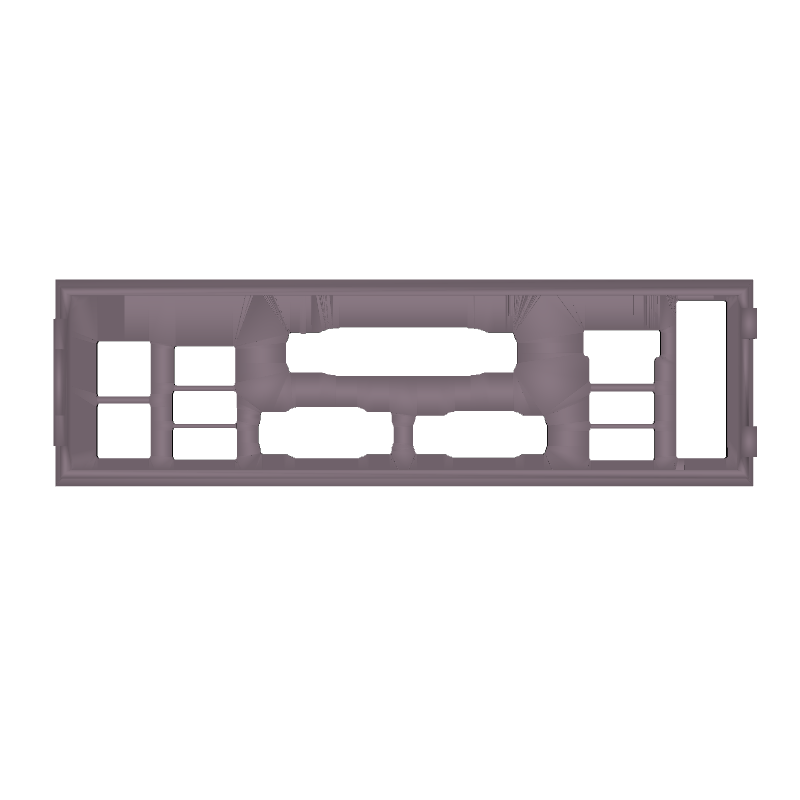
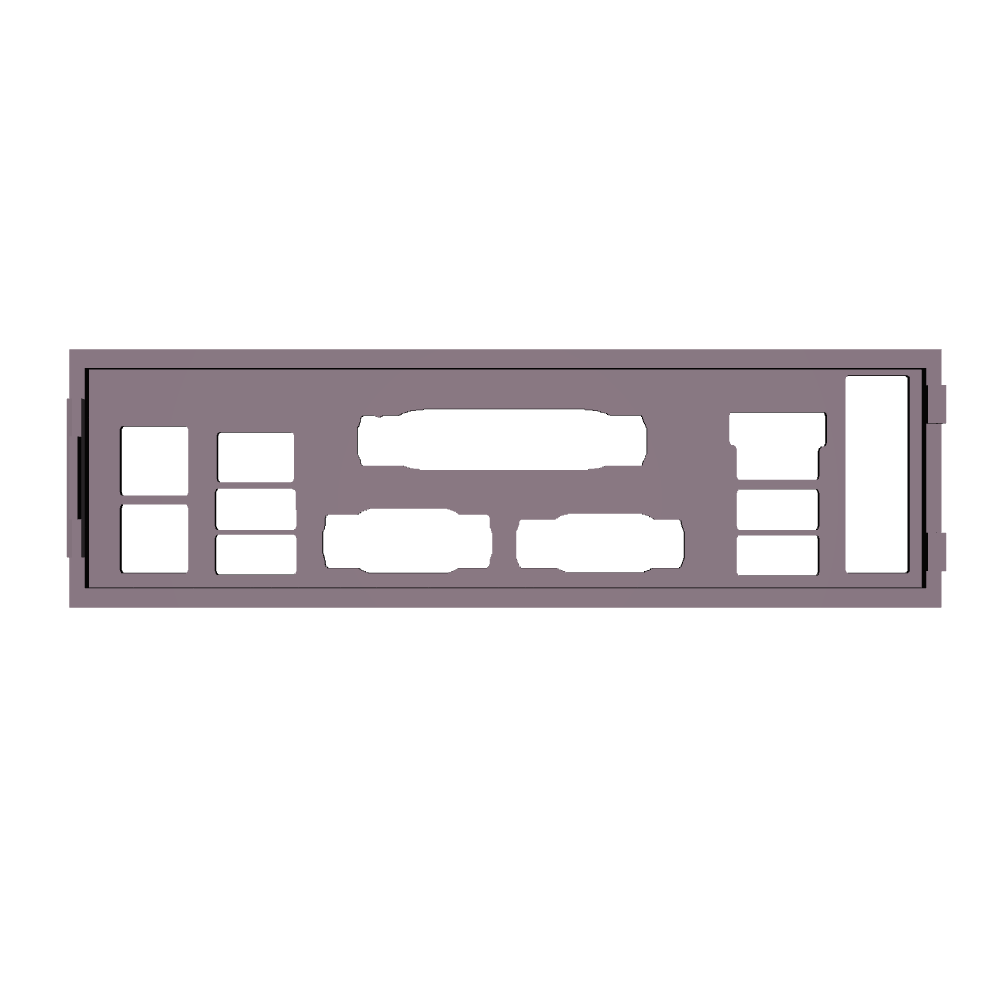
Aw yeah

Changed region(s): [[0.0625, 0.3438, 0.9688, 0.625], [0.2188, 0.5625, 0.6875, 0.5938], [0.1875, 0.5, 0.2188, 0.5625]]

diff --git a/Website/static/logic.js b/Website/static/logic.js
@@ -52,6 +52,13 @@ let userUploadedImage;
 dropContainer.ondragover = dropContainer.ondragenter = function(evt) {
   evt.preventDefault();
 };
+function AllowDownloadImageButton (eventDtTransferFile, fileName){ //evt.dataTransfer.files[0], userUploadedImage[0].name
+	const dlBtn = document.getElementById("downloadBtn");
+	dlBtn.href = URL.createObjectURL(eventDtTransferFile);
+	//dlBtn.download = fileName;
+	dlBtn.download = fileName.replace(/\.[^/.]+$/, "") + ".png";
+	dlBtn.style.display = "inline-block";
+}
 dropContainer.ondrop = function(evt) {
   // pretty simple -- but not for IE :(
   console.log ("DragNDrop");
@@ -67,10 +74,7 @@ dropContainer.ondrop = function(evt) {
   InputBox2.files = dT.files;
   blah.src = URL.createObjectURL(evt.dataTransfer.files[0]);
   document.getElementById("sample").src =  blah.src;
-			const dlBtn = document.getElementById("downloadBtn");
-			dlBtn.href = URL.createObjectURL(evt.dataTransfer.files[0]);
-			dlBtn.download = userUploadedImage[0].name;
-			dlBtn.style.display = "inline-block";
+	AllowDownloadImageButton(evt.dataTransfer.files[0], userUploadedImage[0].name);
   evt.preventDefault();
   document.getElementsByClassName ("ShowAfterShrink")[0].style.display = "block";
   document.getElementsByClassName ("RemoveAfterShrink")[0].style.display = "none";
@@ -96,10 +100,11 @@ InputBox.onchange = evt => {
     blah.src = URL.createObjectURL(file);
 	document.getElementById("sample").src =  blah.src;
 
-	const dlBtn = document.getElementById("downloadBtn");
+	/*const dlBtn = document.getElementById("downloadBtn");
 	dlBtn.href = URL.createObjectURL(file);
 	dlBtn.download = userUploadedImage[0].name;
-	dlBtn.style.display = "inline-block";
+	dlBtn.style.display = "inline-block";*/	
+	AllowDownloadImageButton(evt.dataTransfer.files[0], userUploadedImage[0].name);
   }
   //document.getElementById ("dropContainer").classList.add('Part_1_shrinked');
   document.getElementsByClassName ("ShowAfterShrink")[0].style.display = "block";
@@ -138,10 +143,12 @@ function rotateImage ()
 			InputBox2.files = dt.files;
 			userUploadedImage = dt.files;
 			
-			const dlBtn = document.getElementById("downloadBtn");
+			/*const dlBtn = document.getElementById("downloadBtn");
 			dlBtn.href = URL.createObjectURL(rotatedFile);
 			dlBtn.download = userUploadedImage[0].name;
-			dlBtn.style.display = "inline-block";
+			dlBtn.style.display = "inline-block";*/
+			
+			AllowDownloadImageButton(rotatedFile, userUploadedImage[0].name);
 		});
 	};
 	img.src = URL.createObjectURL(userUploadedImage[0]);
@@ -184,9 +191,10 @@ function cropImage() {
 			InputBox.files = dt.files;
 			InputBox2.files = dt.files;
 			
-			const dlBtn = document.getElementById("downloadBtn");
+			/*const dlBtn = document.getElementById("downloadBtn");
 			dlBtn.href = URL.createObjectURL(croppedFile);
-			dlBtn.download = userUploadedImage[0].name;
+			dlBtn.download = userUploadedImage[0].name;*/
+			AllowDownloadImageButton(croppedFile, userUploadedImage[0].name);
 		});
 	};
 

diff --git a/AutoStlToImg/FindNiggaFile.py b/AutoStlToImg/FindNiggaFile.py
@@ -1,0 +1,95 @@
+import glob, os, re
+from thefuzz import process
+from thefuzz import fuzz
+import shutil
+import os
+
+EbayFileWordList = ["IO", " io", "I/O", "I/o", "i/o", "Shield",
+                    "[Got From Printable]", "Backplate", 
+                    "shield", "3D", "3d", "Printed", "printed",
+                    "Print", "Plate", "plate",
+                    "Black", "White", "WHITE", "BLACK",
+                    "Random", " Plat", " color", " Color", " or ",
+                    "[", "]", "/", ",", "\n", "  "]
+EbayFileIdx = "C:/Users/Za/Desktop/3D Printing/Shopee/IO Shield/Uploaded IO Ebay.txt"
+EbayFileLineList =  []
+
+FatherPath = "C:/Users/Za/Desktop/3D Printing/Shopee/IO Shield/"
+FolderList = ['Asrock', 'Asus', 'Dell', 'EVGA', 'Gigabyte',
+                'HP', 'Huananzhi', 'Intel', 'Msi',
+                'ZZZ_QAT', 'ZZZ_QAT/Abit', 'ZZZ_QAT/Acer', 'ZZZ_QAT/BCM', 'ZZZ_QAT/Biostar',
+                'ZZZ_QAT/Colorful', 'ZZZ_QAT/Daewoo', 'ZZZ_QAT/Datto', 'ZZZ_QAT/ECS',
+                'ZZZ_QAT/Galax', 'ZZZ_QAT/Kllisre', 'ZZZ_QAT/Machinist', 'ZZZ_QAT/Maxsun',
+                'ZZZ_QAT/OEM', 'ZZZ_QAT/SuperMicro', 'ZZZ_QAT/Winnfox', 'ZZZ_QAT/Zotac']
+
+with open(EbayFileIdx, mode = 'r') as EbayFile:
+    for line in EbayFile:
+        t = line
+        t = t.replace('  ', ' ')
+        for i in EbayFileWordList:
+            t = t.replace(i, '')
+        EbayFileLineList.append (t)
+
+PcFileList = []
+PcFileNameList = []
+#Clean and generate pc file list
+for FolderName in FolderList:
+    for filePath in [os.path.normpath(i) for i in glob.glob (os.path.join(FatherPath, FolderName, "*.stl"))]:
+        t = os.path.basename(filePath)
+        t = re.sub(FolderName.split('/')[-1], '', t, flags=re.IGNORECASE) #
+        if (t[0] == ' '):
+            t = t[1:]
+        t = re.sub(r'\[.*?\]', '', t)
+        t = t.replace (" .", ".")
+        #t = t.replace (".stl", "")
+        t = re.sub(".stl", '', t, flags=re.IGNORECASE)
+        if FolderName!='ZZZ_QAT':
+            t = FolderName.split('/')[-1] + " " + t
+        PcFileNameList.append (t)
+        PcFileList.append (filePath)
+#Clean duplicate pc file
+while True:
+    check = False
+    delete_list = []
+    for i in range (len(PcFileList)-1):
+        for j in range (i+1, len(PcFileList)):
+            t = fuzz.partial_token_sort_ratio(PcFileNameList[i], PcFileNameList[j])
+            if (t > 95):
+                #print ("Found matching: [",t,"]:", PcFileNameList[i],"_", PcFileNameList[j])
+                if len(PcFileNameList[i]) < len(PcFileNameList[j]):
+                    delete_list.append(j)
+                    #print ("Delete: ",PcFileList[j])
+                else:
+                    delete_list.append(i)
+                    #print ("Delete: ",PcFileList[i])
+    delete_list.sort()
+    for i in reversed(delete_list):
+        #print ("Deleted: ",i, PcFileList[i])
+        del PcFileList[i]
+        del PcFileNameList[i]
+    break
+#Match Ebay file with pc file
+print ("Matching Ebay with pc")
+for i in EbayFileLineList:
+    matchResult = process.extractOne(i, PcFileNameList)#, scorer=fuzz.partial_token_sort_ratio)
+    if matchResult[1]<95:
+        print (i,'\n',matchResult[0],'_',matchResult[1])
+    else:
+        Remove_index = PcFileNameList.index(matchResult[0])
+        #print (PcFileList[Remove_index],' ',PcFileNameList[Remove_index])
+        PcFileNameList.pop(Remove_index)
+        PcFileList.pop(Remove_index)
+#print (EbayFileLineList)
+
+"""dest_folder = r"[Maybe Not Posted File]"
+os.makedirs(dest_folder, exist_ok=True)
+for idx, path in enumerate(PcFileList):
+    prefix = PcFileNameList[idx] + " ___ "
+    new_name = prefix + os.path.basename(path)
+    dest_path = os.path.join(dest_folder, new_name)
+    shutil.copy2(path, dest_path)
+    #shutil.copy2(path, dest_folder)
+"""
+
+t = PcFileNameList
+t.sort()

diff --git a/AutoStlToImg/sex.py b/AutoStlToImg/sex.py
@@ -2,8 +2,9 @@ import trimesh
 import pyrender
 import numpy as np
 import os
+from PIL import Image
 
-def render_stl_screenshot(stl_path, output_path, angle=30):
+def render_stl_screenshot(stl_path, output_path, output_path_2, angle=30):
     # Load STL file
     mesh = trimesh.load_mesh(stl_path)
     #mesh.apply_transform(trimesh.transformations.rotation_matrix(
@@ -12,29 +13,49 @@ def render_stl_screenshot(stl_path, output_path, angle=30):
 
     # Convert to pyrender mesh
     scene = pyrender.Scene()
+    mesh.merge_vertices()
+    mesh.fix_normals()
+    mesh = mesh.smooth_shaded#mesh.smoothed(normals=True)
     mesh = pyrender.Mesh.from_trimesh(mesh)
     scene.add(mesh)
 
     # Add camera and light
     camera = pyrender.PerspectiveCamera(yfov=np.pi / 4)
     light = pyrender.DirectionalLight(color=np.array ([1,0.75,0.9]), intensity=3.0)
-    scene.add(camera, pose=[[1, 0, 0, 80], [0, 1, 0, 20], [0, 0, 1, 225], [0, 0, 0, 1]])
-    """scene.add(camera, pose=[[200, 0, 0, 80], #[Height,???,???,Move Camera Right]
-                            [0, 150, 0, 20], #[Rotate???, Vertical Scale, ???, Move Camera Down]
-                            [0, 0, 50, 70], #[?,, Inverse Z Scales,Z-axis movement]
-                            [0, 0, 0, 1]])"""
-    scene.add(light, pose=[[1, 0, 0, 50], [0, 1, 0, 50], [0, 0, 1, 100], [0, 0, 0, 1]])
-
+    """scene.add(camera, pose=
+           [[200, 0, 0, 80], #[Hori Scale         , RotateZ + Z-Offset , RotateHorizon   , Move Camera Right]
+            [0, 150, 0, 20], #[-RotateZ + Z-Offset, Vertical Scale     , RotateVertical  , Move Camera UP]
+            [0, 0, 50, 70],  #[RotateHorizon      ,  RotateVertical    , Inverse Z Scales, Move Camera Backward]
+            [0, 0, 0, 1]])   #Bottom row of matrix must be [0,0,0,1]   """
+   
+    scene.add(light, pose=[[1, 0, 0, 50],[0, 1, 0, 50],[0, 0, 1, 100],[0, 0, 0, 1]]) #fine 
+    #scene.add(camera, pose=[[1, 0, 0, 80], [0, 1, 0, 20], [0, 0, 1, 225], [0, 0, 0, 1]]) #fine
+    nc = pyrender.Node(camera=camera, matrix=[[1, 0, 0, 80], [0, 1, 0, 20], [0, 0, 1, 225], [0, 0, 0, 1]])
+    scene.add_node(nc)
     # Render the scene
-    renderer = pyrender.OffscreenRenderer(800, 800)
+    renderer = pyrender.OffscreenRenderer(1000, 1000)
     color, _ = renderer.render(scene)
     renderer.delete()
-
-    # Save the image
-    from PIL import Image
     Image.fromarray(color).save(output_path)
+    scene.remove_node(nc)
 
+    camera2 = pyrender.PerspectiveCamera(yfov=np.pi / 4)
+    #scene.add(camera2, pose=[[   1,-0.2,      0,  -5],
+    #                        [   0,   1,   -0.8, -52],
+    #                        [ 0.9,   0,      1, 160],
+    #                        [   0,   0,      0,  1]])
+    nc = pyrender.Node(camera=camera, matrix=[[   1,-0.2,      0,  -5],
+                            [   0,   1,   -0.8, -52],
+                            [ 0.9,   0,      1, 160],
+                            [   0,   0,      0,  1]])
+    scene.add_node(nc)
+    
+    renderer = pyrender.OffscreenRenderer(1000, 1000)
+    color, _ = renderer.render(scene)
+    renderer.delete()
+    Image.fromarray(color).save(output_path_2)
 # Example usage
-stl_file = "example.stl"
-output_image = "screenshot.png"
-render_stl_screenshot(stl_file, output_image)
+if __name__ == "__main__":
+    stl_file = "example.stl"
+    output_path = "screenshot.png"
+    render_stl_screenshot(stl_file, output_path, output_path_2)

diff --git a/AutoStlToImg/sex2.py b/AutoStlToImg/sex2.py
@@ -1,0 +1,47 @@
+#!/usr/bin/env python3
+import os, math, argparse, numpy as np, trimesh, pyrender
+from glob import glob
+from PIL import Image
+from tqdm import tqdm
+from concurrent.futures import ProcessPoolExecutor
+
+def cam_pose(az, el, dist):
+    az, el = math.radians(az), math.radians(el)
+    x, y, z = dist*math.cos(el)*math.cos(az), dist*math.cos(el)*math.sin(az), dist*math.sin(el)
+    f = -np.array([x,y,z]); f /= np.linalg.norm(f)
+    r = np.cross([0,0,1], f); r /= np.linalg.norm(r)
+    u = np.cross(f, r)
+    M = np.eye(4); M[:3,:3] = np.c_[r,u,f]; M[:3,3] = [x,y,z]
+    return M
+
+def render_one(stl, out, az, el, dist, w, h):
+    try:
+        m = trimesh.load(stl, force='mesh')
+        m.merge_vertices(); m.fix_normals(); m = m.smoothed(normals=True)
+        m.apply_translation(-m.centroid)
+        m.apply_scale(1.0/(m.bounding_sphere.radius or 1))
+        scene = pyrender.Scene(bg_color=(255,255,255), ambient_light=[.3]*3+[1])
+        scene.add(pyrender.Mesh.from_trimesh(m, smooth=True))
+        cam = pyrender.PerspectiveCamera(yfov=np.radians(60))
+        pose = cam_pose(az, el, dist)
+        scene.add(cam, pose=pose)
+        scene.add(pyrender.DirectionalLight(intensity=3), pose=pose)
+        r = pyrender.OffscreenRenderer(w,h)
+        color, _ = r.render(scene); r.delete()
+        Image.fromarray(color).save(out)
+    except Exception as e: print("Fail", stl, e)
+
+def main():
+    a = argparse.ArgumentParser(); add=a.add_argument
+    add("--input"); add("--output"); add("--az",type=float,default=45)
+    add("--el",type=float,default=30); add("--dist",type=float,default=2.5)
+    add("--size",nargs=2,type=int,default=[1024,768]); add("--workers",type=int,default=4)
+    args=a.parse_args(); os.makedirs(args.output,exist_ok=True)
+    files=sorted(glob(os.path.join(args.input,"*.stl")))
+    tasks=[(f,os.path.join(args.output,os.path.splitext(os.path.basename(f))[0]+".png"),
+            args.az,args.el,args.dist,args.size[0],args.size[1]) for f in files]
+    with ProcessPoolExecutor(args.workers) as ex:
+        list(tqdm(ex.map(lambda t: render_one(*t), tasks), total=len(tasks)))
+
+if __name__=="__main__":
+    main()

diff --git a/AutoStlToImg/Render File to Image.py b/AutoStlToImg/Render File to Image.py
@@ -1,0 +1,11 @@
+import glob, os, re
+import shutil
+import os
+from sex import render_stl_screenshot
+STL_Folder_Path = "./Maybe Not Posted File"
+result_img_path = "./ResultImg"
+for file in glob.glob (os.path.join(STL_Folder_Path, "*.stl")):
+    gay_name = os.path.basename (file).split (" ___ ")[0]
+    t0 = os.path.join(result_img_path, gay_name + "_0.png")
+    t1 = os.path.join(result_img_path, gay_name + "_1.png")
+    render_stl_screenshot (file, t0, t1)
